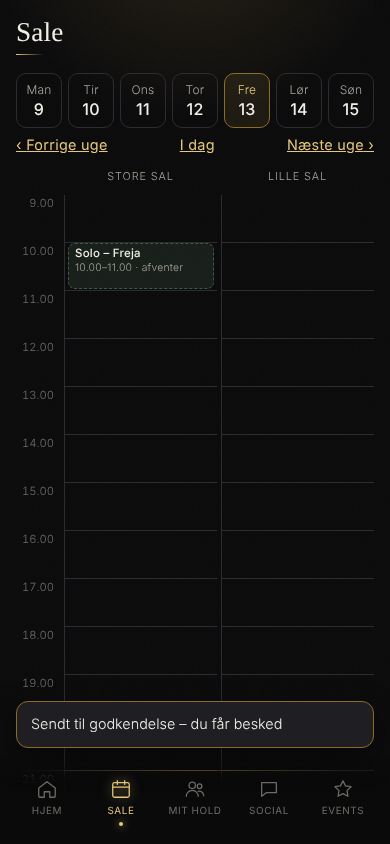
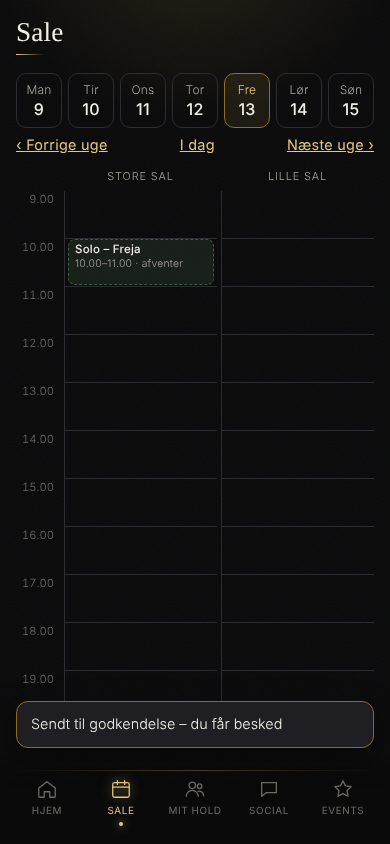
Rooms: fixed header/day picker/room names, only the day grid scrolls; opens at the afternoon
Claude-Session: https://claude.ai/code/session_01GGpukzb1UrCDBdg1Js3mqC

diff --git a/src/domain/llds/screens/Rooms.tsx b/src/domain/llds/screens/Rooms.tsx
@@ -1,4 +1,4 @@
-import { useCallback, useEffect, useState } from "react";
+import { useCallback, useEffect, useRef, useState } from "react";
 import { useTranslation } from "react-i18next";
 import { api, type Absence, type Booking, type Room, type Session } from "@/core/api";
 import { useAuth } from "@/core/auth";
@@ -37,8 +37,10 @@ export function Rooms() {
   const slotH = (a: string, b: string) => Math.max(22, (new Date(b).getTime() - new Date(a).getTime()) / 36e5 * 48 - 2);
   const mine = (s: Session) => s.team_id != null && me.memberships.some((m) => m.person_id === viewing.personId && m.team_id === s.team_id);
 
+  const scroller = useRef<HTMLDivElement>(null);
+  useEffect(() => { const el = scroller.current; if (el) el.scrollTop = (15 - 9) * 48; }, [day.getTime()]); // default to the afternoon where the regular trainings are
   return (
-    <section className="screen">
+    <section className="screen rooms">
       <header className="topbar"><h1 className="display">{t("nav.rooms")}</h1>{isTrainer && <button className="ghost small" onClick={() => setOpen({ kind: "new", room_id: rooms[0]?.id ?? "", start: "16:00" })}>+ {t("session.training")}</button>}</header>
       <div className="days">
         {Array.from({ length: 7 }, (_, i) => addDays(week, i)).map((d) => (
@@ -47,8 +49,11 @@ export function Rooms() {
       </div>
       <div className="row between small muted"><button className="linklike" onClick={() => setDay(addDays(day, -7))}>‹ {t("rooms.prevWeek")}</button><button className="linklike" onClick={() => setDay(startOfDay(new Date()))}>{t("rooms.today")}</button><button className="linklike" onClick={() => setDay(addDays(day, 7))}>{t("rooms.nextWeek")} ›</button></div>
 
-      <div className="cal" style={{ gridTemplateColumns: `44px repeat(${rooms.length}, 1fr)` }}>
+      <div className="cal calhead" style={{ gridTemplateColumns: `44px repeat(${rooms.length}, 1fr)` }}>
         <div />{rooms.map((r) => <div key={r.id} className="h">{r.name}</div>)}
+      </div>
+      <div className="calwrap" ref={scroller} data-testid="calwrap">
+      <div className="cal" style={{ gridTemplateColumns: `44px repeat(${rooms.length}, 1fr)` }}>
         <div className="hours">{HOURS.map((h) => <div key={h} className="t">{h}.00</div>)}</div>
         {rooms.map((r) => (
           <div key={r.id} className="col" style={{ height: HOURS.length * 48 }}>
@@ -67,6 +72,7 @@ export function Rooms() {
         ))}
       </div>
       <p className="tiny">{t("rooms.legend")}</p>
+      </div>
 
       {open?.kind === "session" && <SessionSheet session={open.s} absences={absences} onClose={() => setOpen(null)} onChanged={() => void load()} toast={say} />}
       {open?.kind === "new" && <SessionEditor defaults={{ date: day, room_id: open.room_id, start: open.start }} onClose={() => setOpen(null)} onSaved={() => { setOpen(null); void load(); }} toast={say} />}

diff --git a/src/styles.css b/src/styles.css
@@ -349,3 +349,9 @@ button.cta { box-shadow:0 10px 26px -12px rgba(201,162,74,.7); }
 .chip.small.staff { color:var(--gold2); border-color:rgba(201,162,74,.5); }
 .chip.small.event { background:rgba(201,162,74,.14); border-color:rgba(201,162,74,.5); color:var(--gold2); }
 .chip.small.booking { opacity:.8; }
+
+/* Sale: header, day picker and room names stay fixed – only the day grid scrolls, starting at the afternoon */
+.screen.rooms { height:calc(100dvh - 12px - env(safe-area-inset-top) - 96px - env(safe-area-inset-bottom)); display:flex; flex-direction:column; overflow:hidden; }
+.screen.rooms .calhead { margin-top:10px; }
+.screen.rooms .calwrap { flex:1; min-height:0; overflow-y:auto; overscroll-behavior:contain; -webkit-overflow-scrolling:touch; }
+.screen.rooms .calwrap .cal { margin-top:0; }
